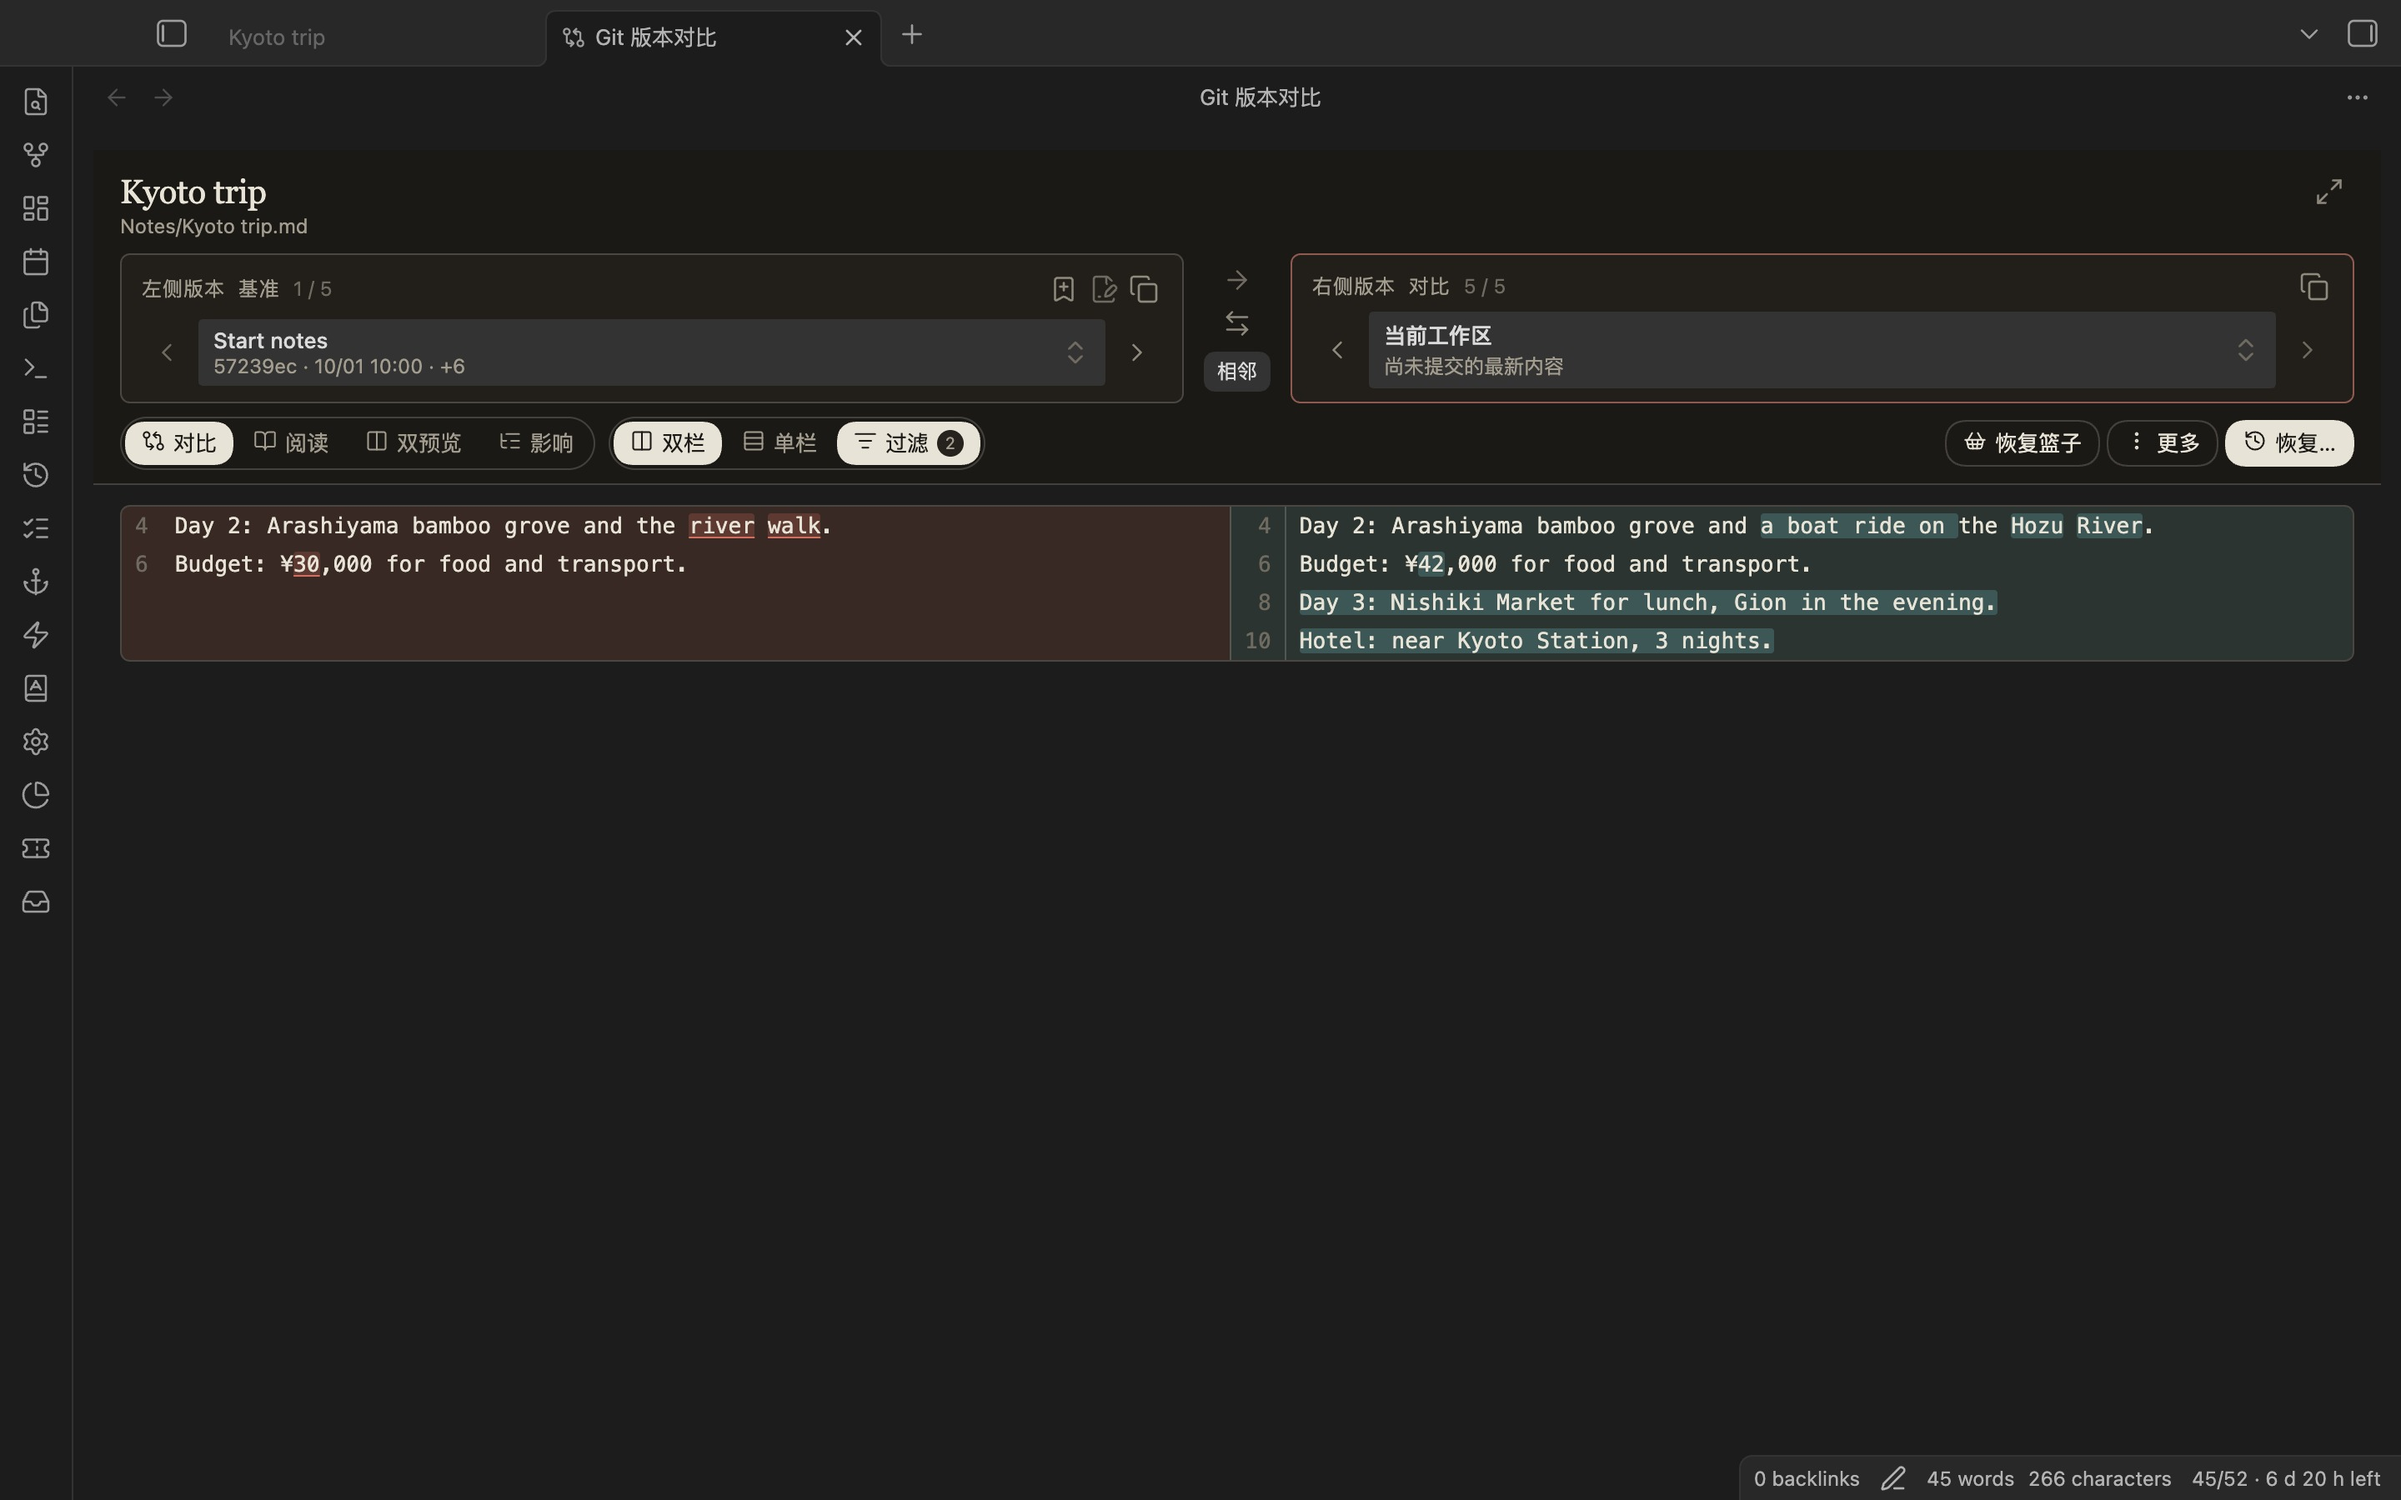
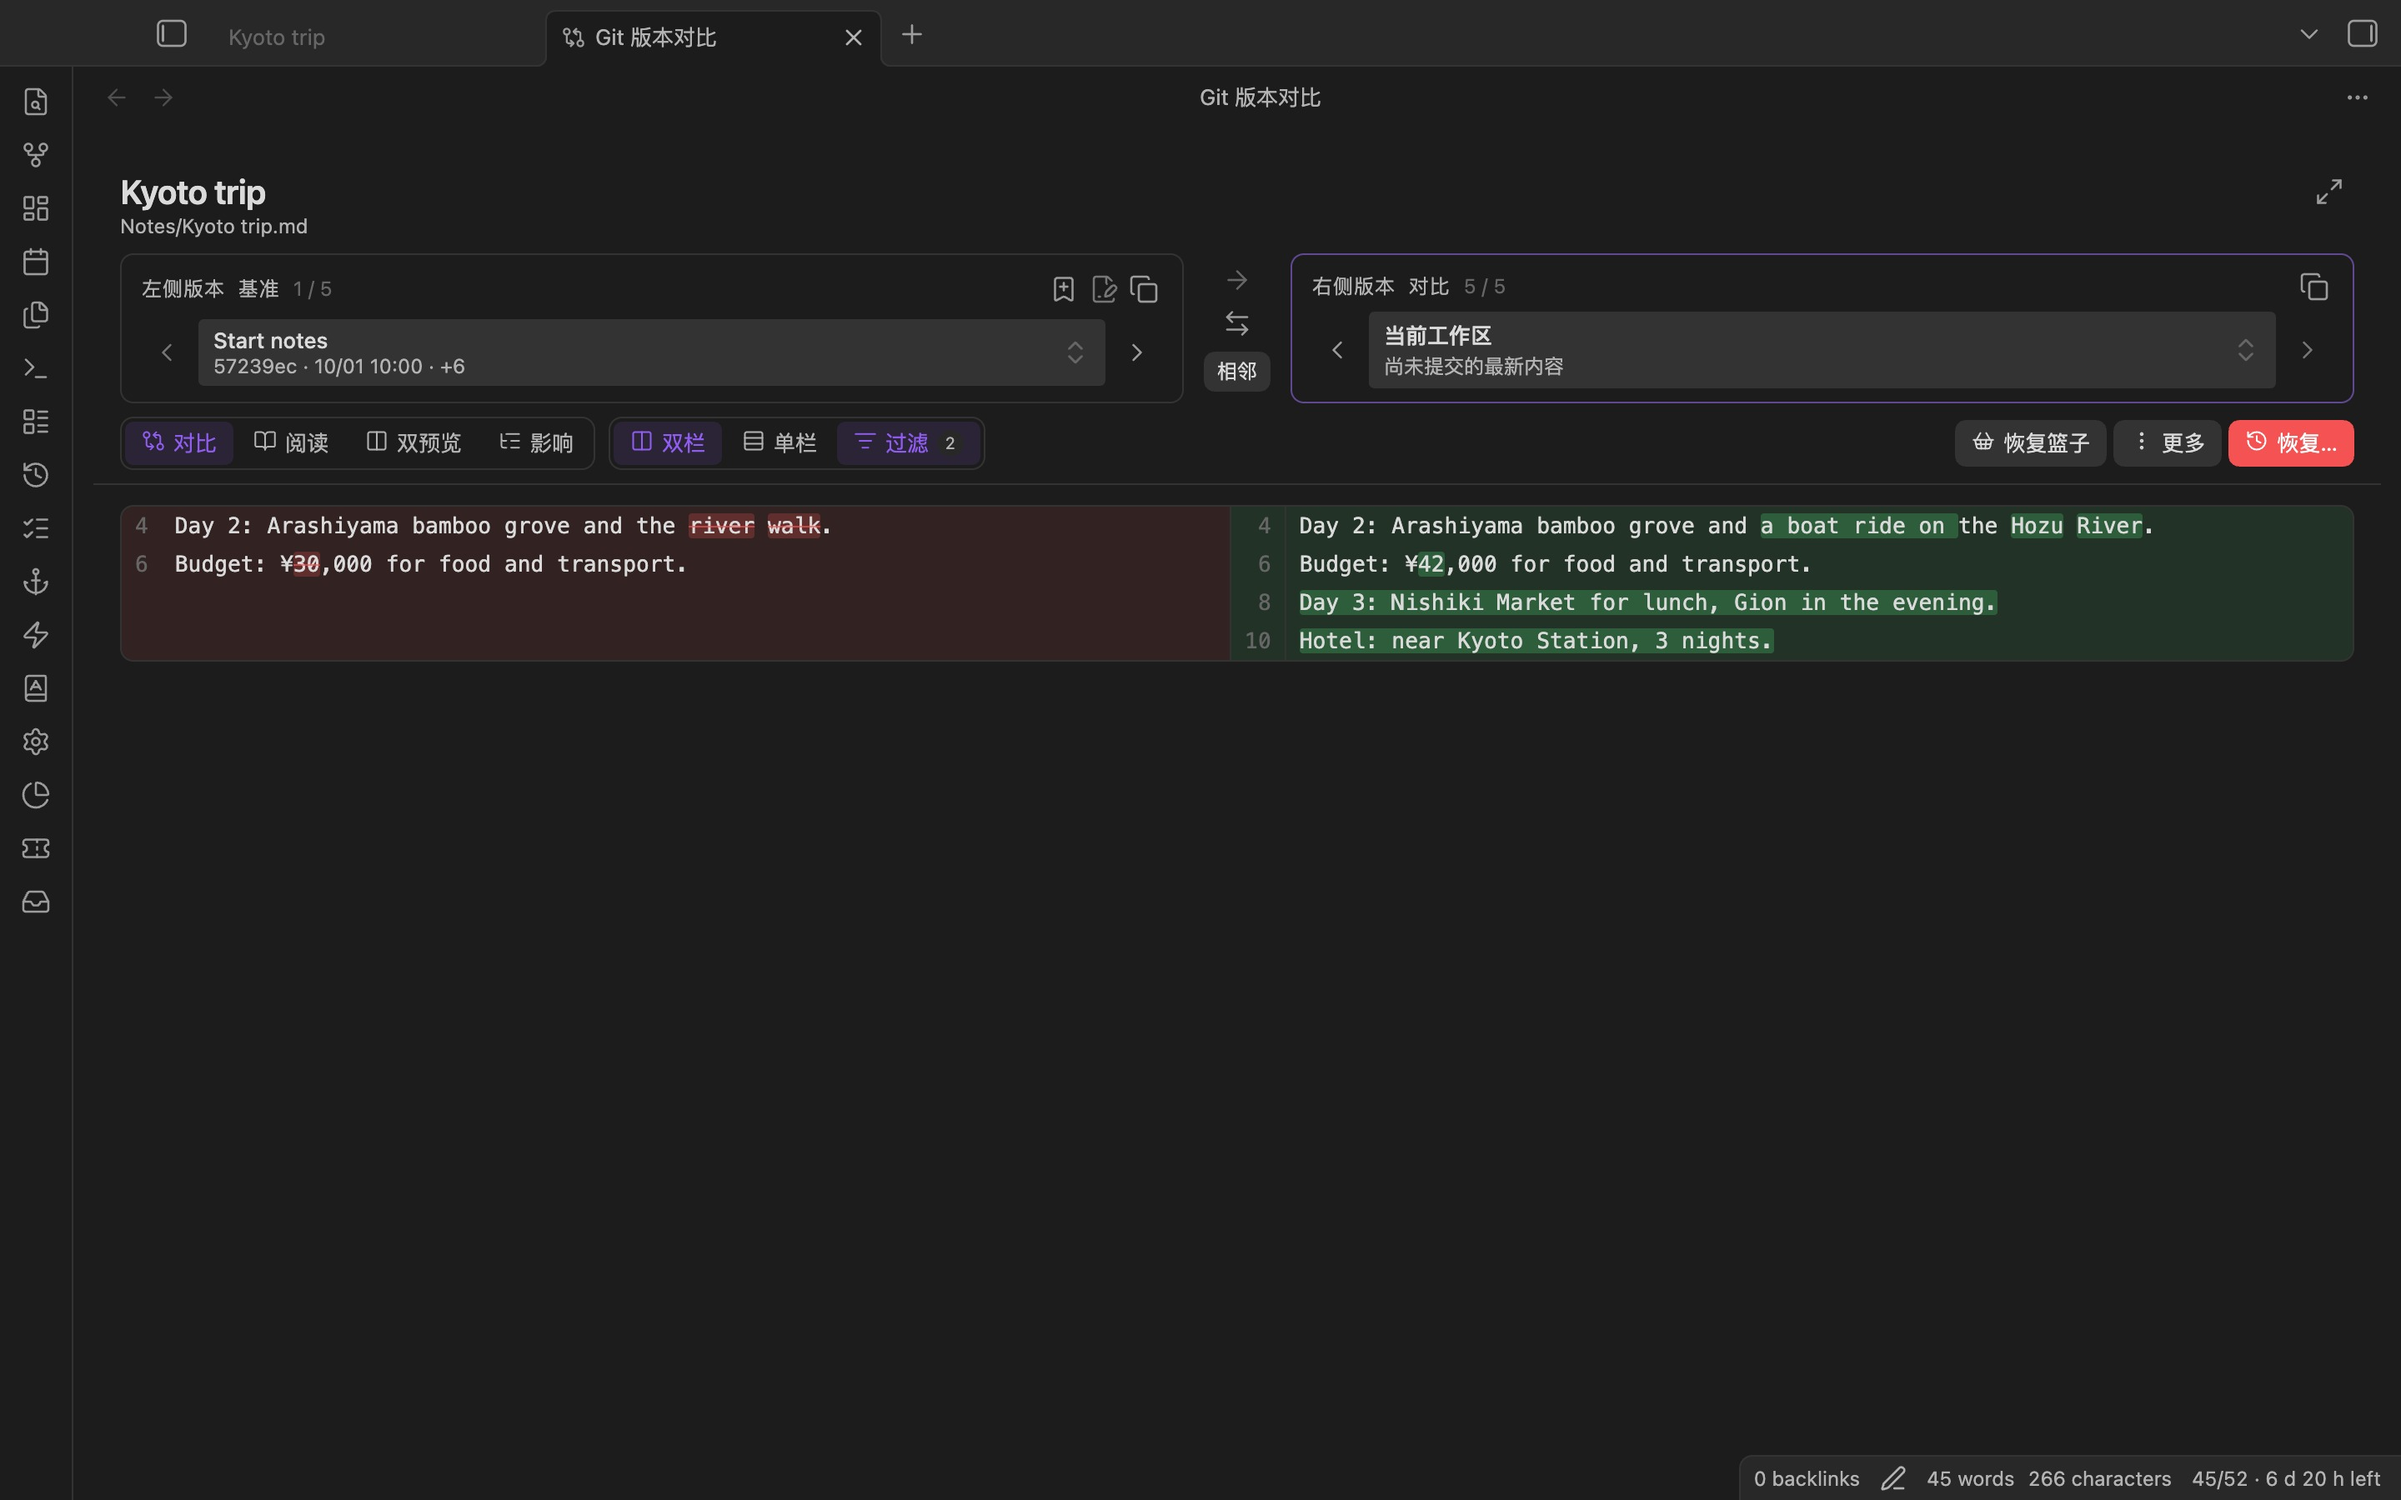
Keep default look in main screenshots, add paper style shot

diff --git a/README.md b/README.md
@@ -42,6 +42,8 @@ The full feature list, in Chinese, is in [docs/FEATURES_zh.md](docs/FEATURES_zh.
 
 Looks: follows your Obsidian theme by default. Settings → 显示 → 纸与墨外观 switches on an optional paper-and-ink look (paper surfaces, serif headings, dark red for removed, teal for added), light and dark.
 
+<img src="docs/screenshots/paper-compare.jpg" width="860">
+
 Requirements: Obsidian 1.8 or later on macOS, Windows or Linux; `git` on your PATH (or set the path in settings).
 
 ## Safety and privacy
